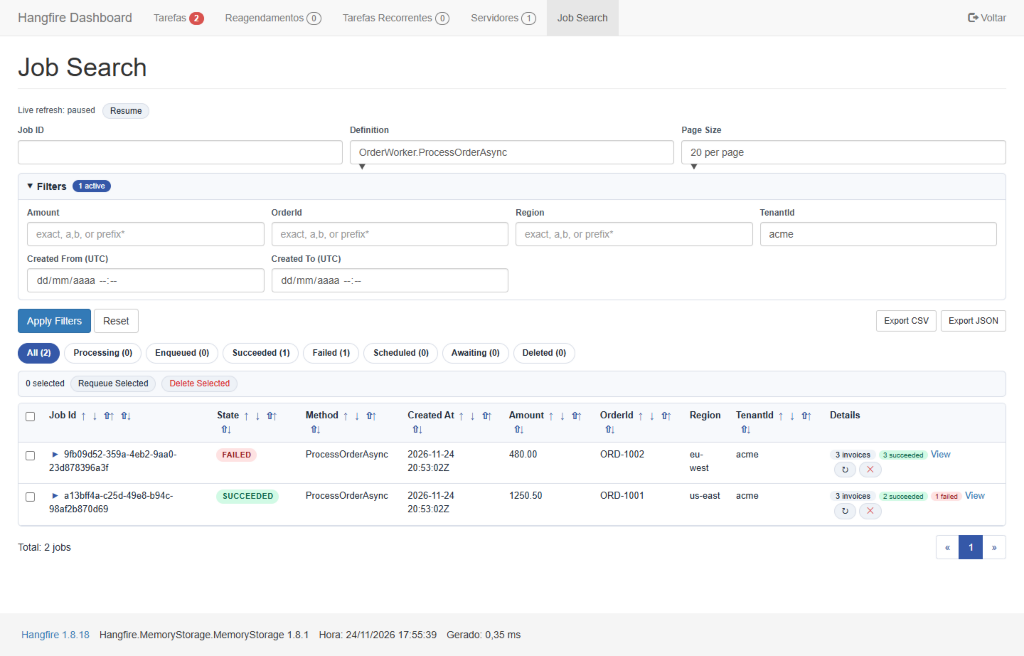
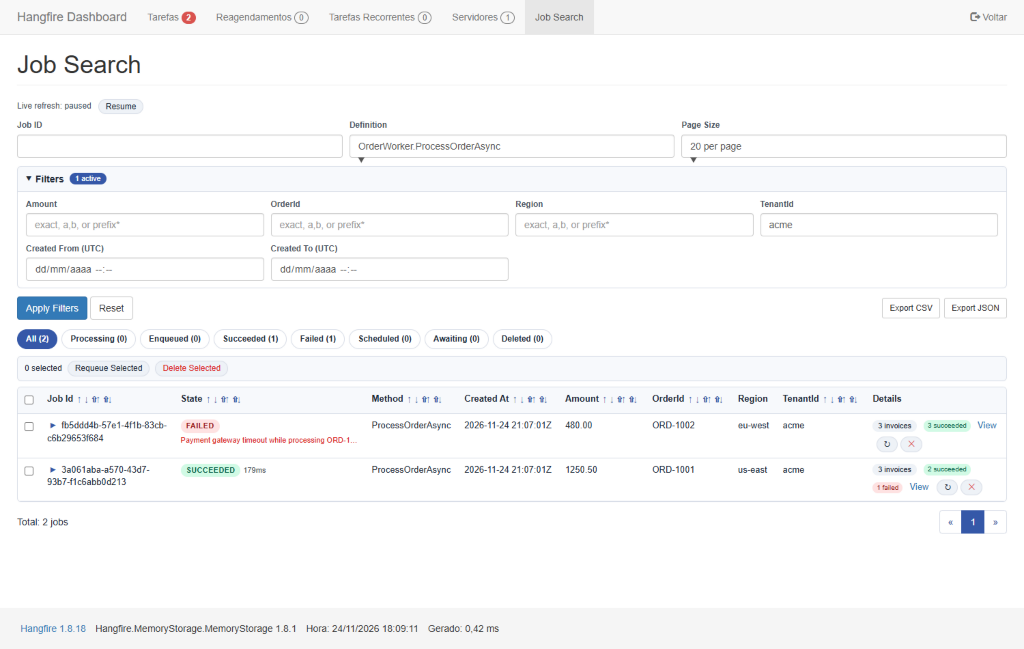
fix(ci,ui,redis): fix Lua unpack, polish UI/enrichment, add Postgres/MsSql Testcontainers, split CI jobs, refresh screenshots

diff --git a/src/Hangfire.Dashboard.JobSearch.Core/JobSearchDashboardRenderer.cs b/src/Hangfire.Dashboard.JobSearch.Core/JobSearchDashboardRenderer.cs
@@ -62,10 +62,13 @@ internal static class JobSearchDashboardRenderer
         html.Append(".hfjs-bulk-bar{display:flex;align-items:center;gap:8px;margin-bottom:8px;padding:6px 10px;border:1px solid var(--hfjs-border);border-radius:6px;background:var(--hfjs-head);font-size:12px;color:var(--hfjs-text);}");
         html.Append(".hfjs-table-wrap{border:1px solid var(--hfjs-border);border-radius:6px;overflow:auto;background:var(--hfjs-bg);width:100%;}");
         html.Append(".hfjs-table{width:100%;min-width:1200px;border-collapse:collapse;font-size:13px;}");
-        html.Append(".hfjs-table th,.hfjs-table td{padding:8px 10px;border-bottom:1px solid var(--hfjs-border);vertical-align:top;white-space:normal;color:var(--hfjs-text);}");
-        html.Append(".hfjs-table th{background:var(--hfjs-head);font-weight:700;position:sticky;top:0;}");
-        html.Append(".hfjs-sort-links a{margin-left:4px;font-size:12px;color:var(--hfjs-link);text-decoration:none;display:inline-block;padding:1px 3px;border-radius:4px;}");
+        html.Append(".hfjs-table th,.hfjs-table td{padding:8px 10px;border-bottom:1px solid var(--hfjs-border);vertical-align:top;color:var(--hfjs-text);}");
+        html.Append(".hfjs-table th{background:var(--hfjs-head);font-weight:700;position:sticky;top:0;white-space:nowrap;}");
+        html.Append(".hfjs-sort-links{display:inline-flex;align-items:center;gap:1px;margin-left:4px;white-space:nowrap;}");
+        html.Append(".hfjs-sort-links a{font-size:11px;color:var(--hfjs-link);text-decoration:none;display:inline-block;padding:1px 2px;border-radius:4px;}");
         html.Append(".hfjs-sort-links a:hover{background:var(--hfjs-chip);}");
+        html.Append(".hfjs-nowrap{white-space:nowrap;}");
+        html.Append(".hfjs-details-cell{display:flex;align-items:center;gap:6px;flex-wrap:wrap;white-space:nowrap;}");
         html.Append(".hfjs-pager{margin-top:12px;display:flex;justify-content:space-between;align-items:center;color:var(--hfjs-text);gap:12px;flex-wrap:wrap;}");
         html.Append(".hfjs-pager .pagination{margin:0;}");
         html.Append(".hfjs-pager .pagination>li>a{color:var(--hfjs-link);background:var(--hfjs-bg);border-color:var(--hfjs-border);}");
@@ -83,7 +86,8 @@ internal static class JobSearchDashboardRenderer
         html.Append(".hfjs-advanced[open]>summary::before{transform:rotate(90deg);}");
         html.Append(".hfjs-advanced>.hfjs-filters{padding:10px 12px;margin-bottom:0;background:var(--hfjs-bg);border-top:1px solid var(--hfjs-border);border-radius:0 0 6px 6px;}");
         html.Append(".hfjs-active-count{margin-left:8px;padding:1px 8px;background:var(--hfjs-link);color:#fff;border-radius:10px;font-size:11px;font-weight:normal;}");
-        html.Append(".hfjs-expand{cursor:pointer;background:none;border:none;padding:0 4px;color:var(--hfjs-link);font-size:11px;display:inline-block;transition:transform 0.15s;}");
+        html.Append(".hfjs-expand{cursor:pointer;background:none;border:none;padding:0 4px;color:var(--hfjs-link);font-size:11px;display:inline-block;transition:transform 0.15s;outline:none;}");
+        html.Append(".hfjs-expand:focus-visible{outline:2px solid var(--hfjs-link);border-radius:3px;}");
         html.Append(".hfjs-expand:hover{background:var(--hfjs-chip);border-radius:3px;}");
         html.Append(".hfjs-expand[data-expanded='true']{transform:rotate(90deg);}");
         html.Append(".hfjs-child-count{background:var(--hfjs-chip);padding:1px 8px;border-radius:10px;font-size:11px;margin-right:4px;color:var(--hfjs-text);}");
@@ -319,16 +323,16 @@ internal static class JobSearchDashboardRenderer
                     .Append("</span>");
             }
             html.Append("</td>")
-                .Append("<td>").Append(E(item.MethodName)).Append("</td>")
-                .Append("<td>").Append(E(item.CreatedAt.ToString("u"))).Append("</td>");
+                .Append("<td class=\"hfjs-nowrap\">").Append(E(item.MethodName)).Append("</td>")
+                .Append("<td class=\"hfjs-nowrap\">").Append(E(item.CreatedAt.ToString("u"))).Append("</td>");
 
             foreach (var field in model.DisplayFields)
             {
                 item.Fields.TryGetValue(field, out var value);
-                html.Append("<td>").Append(E(value)).Append("</td>");
+                html.Append("<td class=\"hfjs-nowrap\">").Append(E(value)).Append("</td>");
             }
 
-            html.Append("<td>");
+            html.Append("<td><div class=\"hfjs-details-cell\">");
             if (hasJoin)
             {
                 RenderJoinBadgeAndSummary(html, item, hasChildren);
@@ -349,7 +353,7 @@ internal static class JobSearchDashboardRenderer
                     .Append("</span>");
             }
 
-            html.Append("</td></tr>");
+            html.Append("</div></td></tr>");
 
             if (hasChildren)
             {

diff --git a/tests/Hangfire.Dashboard.JobSearch.Tests/SqlServerJobSearchStorageTests.cs b/tests/Hangfire.Dashboard.JobSearch.Tests/SqlServerJobSearchStorageTests.cs
@@ -1,0 +1,88 @@
+using Testcontainers.MsSql;
+
+namespace Hangfire.Dashboard.JobSearch.Tests;
+
+[Trait("Category", "SqlServer")]
+public sealed class SqlServerJobSearchStorageTests : IAsyncLifetime
+{
+    private MsSqlContainer _container = null!;
+    private SqlServerJobSearchStorage _storage = null!;
+
+    public async Task InitializeAsync()
+    {
+        _container = new MsSqlBuilder()
+            .WithImage("mcr.microsoft.com/mssql/server:2022-latest")
+            .Build();
+        await _container.StartAsync();
+        _storage = new SqlServerJobSearchStorage(_container.GetConnectionString());
+    }
+
+    public async Task DisposeAsync()
+    {
+        await _container.StopAsync();
+        await _container.DisposeAsync();
+    }
+
+    private static JobSearchMetadata Meta(
+        string jobId,
+        string jobType = "OrderWorker",
+        string methodName = "ProcessAsync",
+        string state = "Enqueued",
+        DateTimeOffset? createdAt = null,
+        params (string Key, string Value)[] fields) =>
+        new JobSearchMetadata
+        {
+            JobId = jobId,
+            JobType = jobType,
+            MethodName = methodName,
+            State = state,
+            CreatedAt = createdAt ?? DateTimeOffset.UtcNow,
+            Fields = fields.ToDictionary(p => p.Key, p => (string?)p.Value)
+        };
+
+    [Fact]
+    public async Task SaveSearchFilterSortPaginateAndDelete_WorkEndToEnd()
+    {
+        var t0 = DateTimeOffset.UtcNow.AddHours(-3);
+        await _storage.SaveMetadataAsync("sql-1", Meta("sql-1", state: "Succeeded", createdAt: t0, fields: new[] { ("TenantId", "acme"), ("OrderId", "ORD-100"), ("Amount", "100") }));
+        await _storage.SaveMetadataAsync("sql-2", Meta("sql-2", state: "Failed", createdAt: t0.AddHours(1), fields: new[] { ("TenantId", "globex"), ("OrderId", "ORD-105"), ("Amount", "7") }));
+        await _storage.SaveMetadataAsync("sql-3", Meta("sql-3", state: "Enqueued", createdAt: t0.AddHours(2), fields: new[] { ("TenantId", "acme"), ("OrderId", "INV-200"), ("Amount", "42") }));
+
+        // Prefix + case-insensitive
+        var prefix = await _storage.SearchAsync(new JobSearchQuery { Filters = { ["OrderId"] = "ord-10*" } });
+        Assert.Equal(2, prefix.TotalCount);
+
+        // Multi-value IN
+        var multi = await _storage.SearchAsync(new JobSearchQuery { Filters = { ["TenantId"] = "acme,globex" } });
+        Assert.Equal(3, multi.TotalCount);
+
+        // Date range
+        var ranged = await _storage.SearchAsync(new JobSearchQuery { CreatedFrom = t0.AddMinutes(30), CreatedTo = t0.AddMinutes(90) });
+        Assert.Equal("sql-2", Assert.Single(ranged.Items).JobId);
+
+        // Numeric field sort
+        var sorted = await _storage.SearchAsync(new JobSearchQuery { SortBy = "Amount", SortDescending = false });
+        Assert.Equal(new[] { "sql-2", "sql-3", "sql-1" }, sorted.Items.Select(x => x.JobId));
+
+        // UpdateState + CountByState
+        await _storage.UpdateStateAsync("sql-3", "Succeeded");
+        var counts = await _storage.CountByStateAsync(new JobSearchQuery { Filters = { ["TenantId"] = "acme" } });
+        Assert.Equal(2, counts["Succeeded"]);
+
+        // Delete
+        await _storage.DeleteMetadataAsync("sql-3");
+        var afterDelete = await _storage.SearchAsync(new JobSearchQuery { JobId = "sql-3" });
+        Assert.Empty(afterDelete.Items);
+    }
+
+    [Fact]
+    public async Task SearchChildrenBulkAsync_ReturnsMappedChildren()
+    {
+        await _storage.SaveMetadataAsync("sql-c1", Meta("sql-c1", jobType: "InvoiceWorker", methodName: "GenerateAsync", state: "Succeeded", fields: ("OrderId", "ORD-99")));
+        await _storage.SaveMetadataAsync("sql-c2", Meta("sql-c2", jobType: "InvoiceWorker", methodName: "GenerateAsync", state: "Failed", fields: ("OrderId", "ORD-99")));
+
+        var bulk = await _storage.SearchChildrenBulkAsync("InvoiceWorker", "GenerateAsync", "OrderId", new[] { "ORD-99" }, 100);
+        Assert.True(bulk.TryGetValue("ORD-99", out var children));
+        Assert.Equal(2, children.Count);
+    }
+}

diff --git a/tests/Hangfire.Dashboard.JobSearch.Tests/PostgreSqlJobSearchStorageTests.cs b/tests/Hangfire.Dashboard.JobSearch.Tests/PostgreSqlJobSearchStorageTests.cs
@@ -1,0 +1,88 @@
+using Testcontainers.PostgreSql;
+
+namespace Hangfire.Dashboard.JobSearch.Tests;
+
+[Trait("Category", "PostgreSql")]
+public sealed class PostgreSqlJobSearchStorageTests : IAsyncLifetime
+{
+    private PostgreSqlContainer _container = null!;
+    private PostgreSqlJobSearchStorage _storage = null!;
+
+    public async Task InitializeAsync()
+    {
+        _container = new PostgreSqlBuilder()
+            .WithImage("postgres:16-alpine")
+            .Build();
+        await _container.StartAsync();
+        _storage = new PostgreSqlJobSearchStorage(_container.GetConnectionString());
+    }
+
+    public async Task DisposeAsync()
+    {
+        await _container.StopAsync();
+        await _container.DisposeAsync();
+    }
+
+    private static JobSearchMetadata Meta(
+        string jobId,
+        string jobType = "OrderWorker",
+        string methodName = "ProcessAsync",
+        string state = "Enqueued",
+        DateTimeOffset? createdAt = null,
+        params (string Key, string Value)[] fields) =>
+        new JobSearchMetadata
+        {
+            JobId = jobId,
+            JobType = jobType,
+            MethodName = methodName,
+            State = state,
+            CreatedAt = createdAt ?? DateTimeOffset.UtcNow,
+            Fields = fields.ToDictionary(p => p.Key, p => (string?)p.Value)
+        };
+
+    [Fact]
+    public async Task SaveSearchFilterSortPaginateAndDelete_WorkEndToEnd()
+    {
+        var t0 = DateTimeOffset.UtcNow.AddHours(-3);
+        await _storage.SaveMetadataAsync("pg-1", Meta("pg-1", state: "Succeeded", createdAt: t0, fields: new[] { ("TenantId", "acme"), ("OrderId", "ORD-100"), ("Amount", "100") }));
+        await _storage.SaveMetadataAsync("pg-2", Meta("pg-2", state: "Failed", createdAt: t0.AddHours(1), fields: new[] { ("TenantId", "globex"), ("OrderId", "ORD-105"), ("Amount", "7") }));
+        await _storage.SaveMetadataAsync("pg-3", Meta("pg-3", state: "Enqueued", createdAt: t0.AddHours(2), fields: new[] { ("TenantId", "acme"), ("OrderId", "INV-200"), ("Amount", "42") }));
+
+        // Prefix + case-insensitive
+        var prefix = await _storage.SearchAsync(new JobSearchQuery { Filters = { ["OrderId"] = "ord-10*" } });
+        Assert.Equal(2, prefix.TotalCount);
+
+        // Multi-value IN
+        var multi = await _storage.SearchAsync(new JobSearchQuery { Filters = { ["TenantId"] = "acme,globex" } });
+        Assert.Equal(3, multi.TotalCount);
+
+        // Date range
+        var ranged = await _storage.SearchAsync(new JobSearchQuery { CreatedFrom = t0.AddMinutes(30), CreatedTo = t0.AddMinutes(90) });
+        Assert.Equal("pg-2", Assert.Single(ranged.Items).JobId);
+
+        // Numeric field sort
+        var sorted = await _storage.SearchAsync(new JobSearchQuery { SortBy = "Amount", SortDescending = false });
+        Assert.Equal(new[] { "pg-2", "pg-3", "pg-1" }, sorted.Items.Select(x => x.JobId));
+
+        // UpdateState + CountByState
+        await _storage.UpdateStateAsync("pg-3", "Succeeded");
+        var counts = await _storage.CountByStateAsync(new JobSearchQuery { Filters = { ["TenantId"] = "acme" } });
+        Assert.Equal(2, counts["Succeeded"]);
+
+        // Delete
+        await _storage.DeleteMetadataAsync("pg-3");
+        var afterDelete = await _storage.SearchAsync(new JobSearchQuery { JobId = "pg-3" });
+        Assert.Empty(afterDelete.Items);
+    }
+
+    [Fact]
+    public async Task SearchChildrenBulkAsync_ReturnsMappedChildren()
+    {
+        await _storage.SaveMetadataAsync("pg-c1", Meta("pg-c1", jobType: "InvoiceWorker", methodName: "GenerateAsync", state: "Succeeded", fields: ("OrderId", "ORD-99")));
+        await _storage.SaveMetadataAsync("pg-c2", Meta("pg-c2", jobType: "InvoiceWorker", methodName: "GenerateAsync", state: "Failed", fields: ("OrderId", "ORD-99")));
+
+        var bulk = await _storage.SearchChildrenBulkAsync("InvoiceWorker", "GenerateAsync", "OrderId", new[] { "ORD-99" }, 100);
+        Assert.True(bulk.TryGetValue("ORD-99", out var children));
+        Assert.Equal(2, children.Count);
+    }
+}

diff --git a/src/Hangfire.Dashboard.JobSearch.Core/JobSearchDashboardRazorDispatcher.cs b/src/Hangfire.Dashboard.JobSearch.Core/JobSearchDashboardRazorDispatcher.cs
@@ -257,22 +257,31 @@ internal sealed class JobSearchDashboardRazorDispatcher : IDashboardDispatcher
                 }
 
                 var details = monitoring.JobDetails(item.JobId);
-                var latest = details?.History?.FirstOrDefault();
-                if (latest?.Data is null)
+                if (details?.History is null || details.History.Count == 0)
+                {
+                    continue;
+                }
+
+                var matchingState = details.History
+                    .Where(h => string.Equals(h.StateName, item.State, StringComparison.OrdinalIgnoreCase))
+                    .OrderByDescending(h => h.CreatedAt)
+                    .FirstOrDefault();
+
+                if (matchingState?.Data is null)
                 {
                     continue;
                 }
 
                 if (string.Equals(item.State, "Failed", StringComparison.OrdinalIgnoreCase))
                 {
-                    if (latest.Data.TryGetValue("ExceptionMessage", out var msg) && !string.IsNullOrWhiteSpace(msg))
+                    if (matchingState.Data.TryGetValue("ExceptionMessage", out var msg) && !string.IsNullOrWhiteSpace(msg))
                     {
                         item.LastError = msg;
                     }
                 }
                 else if (string.Equals(item.State, "Succeeded", StringComparison.OrdinalIgnoreCase))
                 {
-                    if (latest.Data.TryGetValue("PerformanceDuration", out var durStr)
+                    if (matchingState.Data.TryGetValue("PerformanceDuration", out var durStr)
                         && long.TryParse(durStr, NumberStyles.Integer, CultureInfo.InvariantCulture, out var ms)
                         && ms >= 0)
                     {

diff --git a/src/Hangfire.Dashboard.JobSearch.Redis/RedisJobSearchStorage.cs b/src/Hangfire.Dashboard.JobSearch.Redis/RedisJobSearchStorage.cs
@@ -43,9 +43,11 @@ public sealed class RedisJobSearchStorage : IJobSearchStorage, IJobSearchBulkChi
         "local baseKey = KEYS[2]\n" +
         "local createdBase = false\n" +
         "if baseCount > 1 then\n" +
-        "  local args = {}\n" +
+        "  local args = {'ZINTERSTORE', KEYS[1], baseCount}\n" +
         "  for i = 2, baseCount + 1 do args[#args + 1] = KEYS[i] end\n" +
-        "  redis.call('ZINTERSTORE', KEYS[1], baseCount, unpack(args), 'AGGREGATE', 'MIN')\n" +
+        "  args[#args + 1] = 'AGGREGATE'\n" +
+        "  args[#args + 1] = 'MIN'\n" +
+        "  redis.call(unpack(args))\n" +
         "  baseKey = KEYS[1]\n" +
         "  createdBase = true\n" +
         "end\n" +

diff --git a/tests/Hangfire.Dashboard.JobSearch.Tests/RedisJobSearchStorageTests.cs b/tests/Hangfire.Dashboard.JobSearch.Tests/RedisJobSearchStorageTests.cs
@@ -9,6 +9,7 @@ using Xunit;
 
 namespace Hangfire.Dashboard.JobSearch.Tests;
 
+[Trait("Category", "Redis")]
 public sealed class RedisJobSearchStorageTests : IAsyncLifetime
 {
     private RedisContainer _container = null!;
